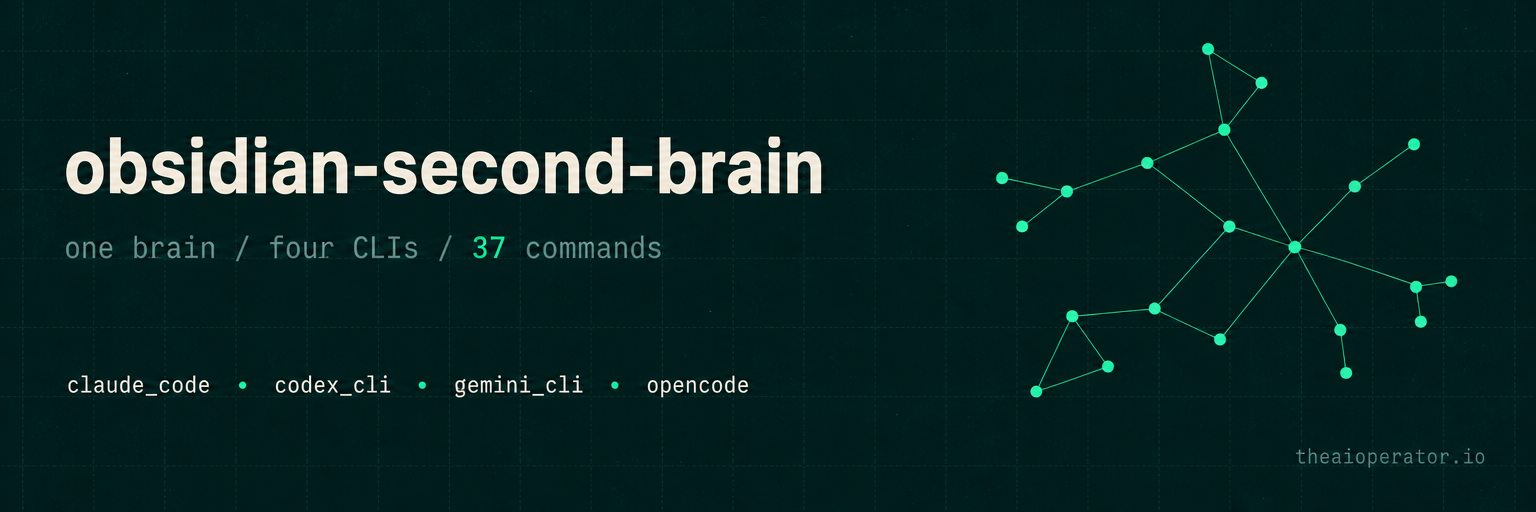
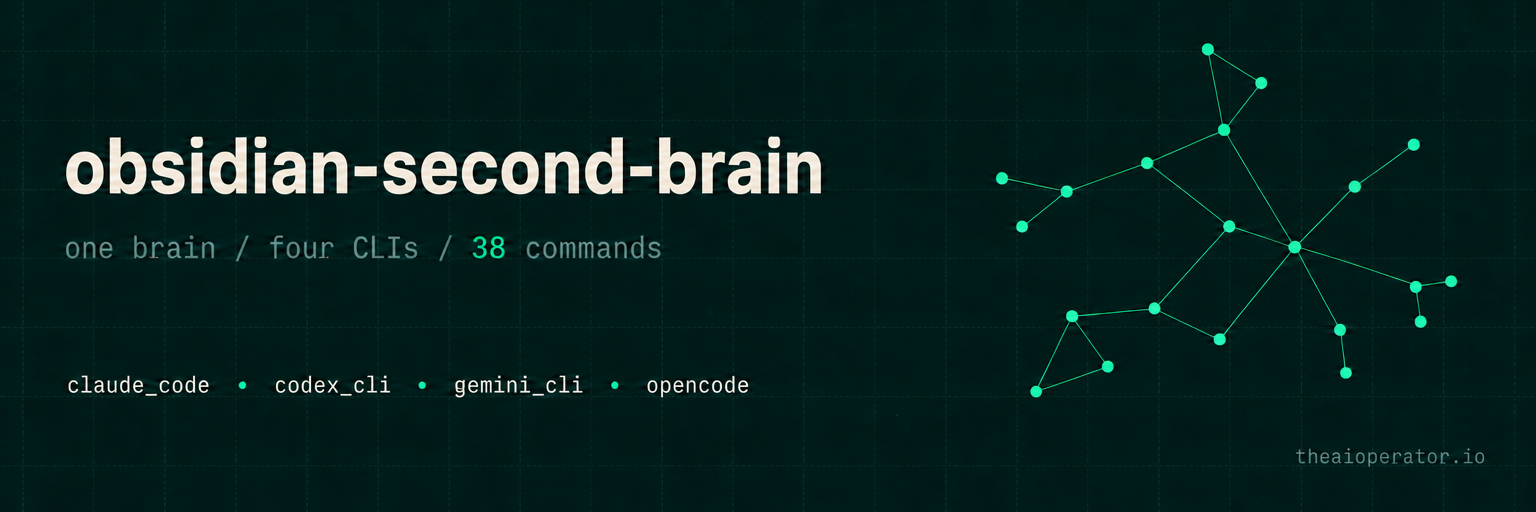
Add /obsidian-recurring; skip the niche workflow commands (#50)
Adds /obsidian-recurring (type: recurring-task with cadence + computed
next-due), filling the gap that one-shot /obsidian-task leaves. Adapted
from the johanvillalbab fork (English section names, anti-fabrication
footer, search-first step).

Deliberately NOT adding that fork's other workflow commands (proposal,
event, 1on1, launch-block): they are profession-specific (sales,
events, teaching, course launches) and belong in domain forks per
ECOSYSTEM.md, not in the general upstream skill. The overlapping ones
(vault-deep-synthesis, idea-discovery) are deferred pending evaluation
against the existing /obsidian-synthesize / -reconcile / -emerge.

Adds the recurring-task schema to references/ai-first-rules.md; registers
the command in SKILL.md and the README table; bumps counts to 38
(vault 15, cross-platform 35, non-research 30); banner number 37 -> 38.

Implements FORK_INSIGHTS.md #15.

diff --git a/commands/obsidian-recurring.md b/commands/obsidian-recurring.md
@@ -1,0 +1,23 @@
+---
+description: Track a recurring obligation (payment, filing, ops) with a cadence and a computed next-due date
+category: vault
+triggers_en: ["recurring task", "monthly obligation", "remind me every month", "recurring payment", "track a recurring"]
+---
+
+Use the obsidian-second-brain skill. Execute `/obsidian-recurring $ARGUMENTS`:
+
+The argument states the obligation and its cadence (e.g. "pay social benefits, monthly day 20"). Pull blocker/owner detail from the conversation.
+
+1. Read `_CLAUDE.md` first if it exists in the vault root.
+2. Search for an existing note on this obligation before creating one (see the anti-fabrication rule). If one exists, update it instead of duplicating.
+3. Build the note with these sections: What, Cadence, Blockers, History. Use the vault's `templates/` version if one exists.
+4. Set frontmatter: `type: recurring-task`, `cadence`, `owner`, `blocker` (wikilink if a person/vendor gates it), `next-due` (compute the next occurrence from today and the cadence), and `amount` if it is a payment.
+5. Add a card for the next occurrence to the right board so it surfaces before `next-due`.
+6. Propagate: link from the relevant project or finance note, and append a one-line entry to today's daily note and the operation log (`Logs/YYYY-MM-DD.md` if it exists, otherwise `log.md`).
+7. On each completion: append a row to History and advance `next-due` to the next occurrence.
+
+---
+
+**AI-first rule:** Every note created or updated by this command MUST follow `references/ai-first-rules.md` - `## For future Claude` preamble, rich frontmatter (`type`, `date`, `tags`, `ai-first: true`, plus type-specific fields), recency markers per external claim, mandatory `[[wikilinks]]` for every person/project/concept referenced, sources preserved verbatim with URLs inline, and confidence levels where applicable. The vault is for future-Claude retrieval - not human reading.
+
+**Anti-fabrication:** Search exhaustively before claiming any note, person, or file is absent - false absence is the most common failure mode - and never invent facts, entities, or dates (mark unknowns as `TBD`). See the anti-fabrication and search-completeness hard rules in `references/ai-first-rules.md`.

diff --git a/README.md b/README.md
@@ -1,6 +1,6 @@
 <p align="center">
   <a href="https://github.com/eugeniughelbur/obsidian-second-brain">
-    <img src="media/banner.png" alt="obsidian-second-brain: one brain, four CLIs, 37 commands. A cross-CLI skill for Obsidian that runs on Claude Code, Codex CLI, Gemini CLI, and OpenCode." width="100%" />
+    <img src="media/banner.png" alt="obsidian-second-brain: one brain, four CLIs, 38 commands. A cross-CLI skill for Obsidian that runs on Claude Code, Codex CLI, Gemini CLI, and OpenCode." width="100%" />
   </a>
 </p>
 
@@ -34,14 +34,14 @@
   <br /><br />
   <em>Every source updates existing pages instead of just appending new ones. Contradictions reconcile automatically. Your vault compounds while you sleep.</em>
   <br /><br />
-  <em>37 commands &middot; auto-synthesis &middot; thinking tools that argue with you</em>
+  <em>38 commands &middot; auto-synthesis &middot; thinking tools that argue with you</em>
   <br /><br />
   <em>live research from X, the web, and YouTube &middot; 4 scheduled agents &middot; 4 role presets</em>
   <br /><br />
   <em>write-time AI-first validator &middot; <code>/create-command</code> interview flow &middot; multilingual trigger schema</em>
   <br /><br />
   <a href="#what-happens-when-you-install-this">See it in action</a> &middot;
-  <a href="#37-commands">All commands</a> &middot;
+  <a href="#38-commands">All commands</a> &middot;
   <a href="#install">Install</a> &middot;
   <a href="#choose-your-preset">Presets</a> &middot;
   <a href="https://github.com/eugeniughelbur/obsidian-second-brain/discussions">Discussions</a>
@@ -216,7 +216,7 @@ Free transcript via youtube-transcript-api. Optional metadata + top comments via
 ```
   +------------------------------------------+
   |                                          |
-  |   LAYER 1: Operations (25 commands)      |
+  |   LAYER 1: Operations (26 commands)      |
   |   Claude remembers everything            |
   |                                          |
   +------------------------------------------+
@@ -243,7 +243,7 @@ Free transcript via youtube-transcript-api. Optional metadata + top comments via
   +------------------------------------------+
 ```
 
-37 commands total. The 3 Google Calendar commands (in Operations) are Claude Code only, so the Codex / Gemini / OpenCode builds ship 34.
+38 commands total. The 3 Google Calendar commands (in Operations) are Claude Code only, so the Codex / Gemini / OpenCode builds ship 35.
 
 **Layer 1** saves, organizes, ingests, reconciles, exports, schedules your calendar, and maintains your vault.
 **Layer 2** challenges your ideas, surfaces hidden patterns, bridges unrelated domains, and graduates ideas into projects.
@@ -253,7 +253,7 @@ Free transcript via youtube-transcript-api. Optional metadata + top comments via
 
 ---
 
-## 37 Commands
+## 38 Commands
 
 ### Operations -- Claude remembers
 
@@ -268,6 +268,7 @@ Free transcript via youtube-transcript-api. Optional metadata + top comments via
 | `/obsidian-agenda` | Reads Google Calendar and writes an AI-first snapshot (conflicts, focus blocks, attendee links) |
 | `/obsidian-schedule` | Creates or moves a Google Calendar event from a task or standalone, links it back to the task |
 | `/obsidian-meeting` | Generates a meeting note from a calendar event (attendees, time, link pre-filled) |
+| `/obsidian-recurring` | Tracks a recurring obligation with a cadence and a computed next-due date |
 | `/obsidian-log` | Logs a work session, links it everywhere |
 | `/obsidian-task` | Adds task to the right board with priority and due date |
 | `/obsidian-person` | Creates or updates a person note |
@@ -618,7 +619,7 @@ Keys you need:
 | `YOUTUBE_API_KEY` | [console.cloud.google.com](https://console.cloud.google.com) | `/youtube` metadata + comments (optional, transcripts free without) | Free tier 10k units/day |
 | `OPENAI_API_KEY` | [platform.openai.com](https://platform.openai.com/api-keys) | `/podcast` Whisper transcription (optional, falls back to show-notes if unset) | ~$0.006/min |
 
-Without keys, the 29 non-research commands work fully, and `/research` + `/research-deep` fall back to free, key-less sources. The rest of the research toolkit degrades gracefully.
+Without keys, the 30 non-research commands work fully, and `/research` + `/research-deep` fall back to free, key-less sources. The rest of the research toolkit degrades gracefully.
 
 ---
 
@@ -637,7 +638,7 @@ An Obsidian plugin runs inside Obsidian and is written in TypeScript against Obs
 Run the one-line installer from the Install section below. It clones the repo to `~/.claude/skills/obsidian-second-brain` and symlinks the slash commands into `~/.claude/commands/` so Claude Code picks them up automatically. Restart Claude Code after install. The skill loads on every session that touches an Obsidian vault.
 
 ### Does this work with Codex CLI, Gemini CLI, or OpenCode?
-Yes. The repo ships a build script that compiles the platform-neutral source into four platform-specific outputs: Claude Code (slash commands + `CLAUDE.md`), Codex CLI (`AGENTS.md` + `.codex/commands/`), Gemini CLI (`GEMINI.md` + `.gemini/commands/`), and OpenCode (`AGENTS.md` + `.opencode/commands/`). Run `bash scripts/build.sh --platform codex-cli` (or another platform name), then copy the resulting `dist/<platform>/` tree into your vault. The non-Claude builds auto-generate a routing table that maps natural-language triggers to command files, so the same 34 cross-platform commands work no matter which CLI you use (the 3 Google Calendar commands are Claude Code only, since they depend on the claude.ai Calendar connector). The vault rules (AI-first notes, frontmatter, wikilinks, recency markers) are identical across all four platforms.
+Yes. The repo ships a build script that compiles the platform-neutral source into four platform-specific outputs: Claude Code (slash commands + `CLAUDE.md`), Codex CLI (`AGENTS.md` + `.codex/commands/`), Gemini CLI (`GEMINI.md` + `.gemini/commands/`), and OpenCode (`AGENTS.md` + `.opencode/commands/`). Run `bash scripts/build.sh --platform codex-cli` (or another platform name), then copy the resulting `dist/<platform>/` tree into your vault. The non-Claude builds auto-generate a routing table that maps natural-language triggers to command files, so the same 35 cross-platform commands work no matter which CLI you use (the 3 Google Calendar commands are Claude Code only, since they depend on the claude.ai Calendar connector). The vault rules (AI-first notes, frontmatter, wikilinks, recency markers) are identical across all four platforms.
 
 ### Does this work with Obsidian Sync?
 Yes. The skill writes to your vault as standard markdown files. Obsidian Sync, iCloud, Syncthing, and Git-based sync all work without modification.

diff --git a/references/ai-first-rules.md b/references/ai-first-rules.md
@@ -256,6 +256,20 @@ tags: [meeting]
 ai-first: true
 ```
 
+### `type: recurring-task`
+Written by `/obsidian-recurring`. Tracks a repeating obligation with a cadence and a computed `next-due` that advances on each completion. The History section logs each occurrence.
+```yaml
+date: YYYY-MM-DD
+type: recurring-task
+cadence: ""                  # e.g. "monthly day 20", "every quarter", "weekly Mon"
+owner: ""
+blocker: "[[People/...]]"    # optional - who/what gates it
+next-due: YYYY-MM-DD         # computed next occurrence
+amount: ""                   # optional - for payments
+tags: [recurring-task]
+ai-first: true
+```
+
 ---
 
 ## Preamble Templates by Type

diff --git a/SKILL.md b/SKILL.md
@@ -106,7 +106,7 @@ See `references/vault-schema.md` for full structural details.
 ## Core Operating Principles
 
 ### AI-first vault rule (applies to every note)
-The vault is designed for **future-Claude** to read and reason over, not for human review. Every note Claude writes - across all 37 commands - must follow `references/ai-first-rules.md`:
+The vault is designed for **future-Claude** to read and reason over, not for human review. Every note Claude writes - across all 38 commands - must follow `references/ai-first-rules.md`:
 
 1. **Self-contained context** - each note explains itself; don't rely on backlinks alone
 2. **"For future Claude" preamble** - 2-3 sentence summary so Claude can decide relevance in 10 seconds
@@ -401,6 +401,14 @@ Three modes: standalone (`"<title>" <when> <duration>`), from a vault task (`tas
 **Generates a meeting note from a Google Calendar event.** Claude Code only.
 
 Resolve the event (`last`, `next`, `today`, `event-id:<id>`, or fuzzy title), cross-link attendees to person notes, and backlink any task whose frontmatter `calendar-event-id` matches. Saves to `wiki/meetings/` as `type: meeting` with the event metadata pre-filled and **empty** Notes / Decisions / Action items sections - never fabricate meeting content that did not happen.
+
+---
+
+### `/obsidian-recurring`
+
+**Tracks a recurring obligation (payment, filing, ops) with a cadence and a computed next-due date.**
+
+State the obligation and cadence (e.g. "pay social benefits, monthly day 20"). Searches for an existing note first, then builds a `type: recurring-task` note with What / Cadence / Blockers / History sections and frontmatter (`cadence`, `owner`, `blocker`, `next-due`, optional `amount`). Adds a board card for the next occurrence; on each completion, appends a History row and advances `next-due`. Fills the gap that `/obsidian-task` (one-shot) leaves.
 
 ---
 

diff --git a/CHANGELOG.md b/CHANGELOG.md
@@ -13,6 +13,7 @@ The format is based on [Keep a Changelog](https://keepachangelog.com/en/1.1.0/),
 
 ### Added
 
+- **`/obsidian-recurring` - track a recurring obligation with a cadence and a computed next-due date.** Builds a `type: recurring-task` note (What / Cadence / Blockers / History), adds a board card for the next occurrence, and advances `next-due` on each completion. Fills the gap that `/obsidian-task` (one-shot) leaves. Adds the `recurring-task` schema to `references/ai-first-rules.md`. (FORK_INSIGHTS.md #15; from the johanvillalbab fork. The other workflow commands in that fork - proposal, event, 1on1, launch-block - were intentionally left to domain forks per ECOSYSTEM.md rather than added upstream.)
 - **Google Calendar commands: `/obsidian-agenda`, `/obsidian-schedule`, `/obsidian-meeting`.** Claude Code only (they use the claude.ai Google Calendar MCP connector, so they are excluded from the Codex/Gemini/OpenCode builds). `/obsidian-agenda` writes a re-derivable `agenda-snapshot` note for a range (today/tomorrow/week/next-week/date/range) with conflict, back-to-back, focus-block, and external-organizer detection, cross-linking attendees to person notes. `/obsidian-schedule` creates or reschedules events from a task or standalone, resolving attendee emails from person notes (never guessing) and writing the event id/url back to the task. `/obsidian-meeting` generates a `meeting` note from an event with empty Notes/Decisions/Action-items sections (never fabricated). Adds `agenda-snapshot` and `meeting` schemas to `references/ai-first-rules.md`. (FORK_INSIGHTS.md #8-11; from the johanvillalbab fork)
 - **Free (key-less) mode for `/research` and `/research-deep`.** Both commands now work with no API keys. Mode is auto-selected: when `PERPLEXITY_API_KEY` is set they use Perplexity/Grok exactly as before; when it is not (or `--free` is passed) they aggregate free, key-less sources in parallel - Wikipedia, HackerNews, arXiv, Reddit, Lobsters, dev.to, OpenAlex, Semantic Scholar, CrossRef, DuckDuckGo (SearXNG fallback) - and emit JSON that the calling Claude synthesizes into the same AI-first dossier. `--academic` restricts free mode to scholarly sources. New `scripts/research/lib/` layer: 11 source clients, a parallel aggregator (30s timeout, "success" at >= 3 sources, never crashes on a per-source failure), a 24h-TTL cache, a shared polite-UA session, and an env-based `source_config` deliberately decoupled from the vault path so the sources import with no vault and no keys. Previously these commands hard-errored without a Perplexity key - the main adoption barrier. 6 new no-network unit tests; CI installs `requests`. (FORK_INSIGHTS.md #1-6; from the a0919376604 fork)
 - **Anti-fabrication and search-completeness guards.** Adds a non-negotiable hard-rules section to `references/ai-first-rules.md` covering three failure modes: false absence (never claim a note/person/file is absent without an exhaustive search - the single most common observed failure), search completeness (enumerate exhaustively, do not sample), and no fabrication (never invent facts/entities/dates; mark unknowns `TBD`; an empty section is correct when nothing was said). Echoed in the SKILL.md operating principles and `references/write-rules.md`, plus a per-command **Anti-fabrication** footer on the 33 commands that write vault notes (`create-command` excepted - it writes command files, not notes). Fills a real gap: the repo had an AI-first write spec but no hallucination guard. (FORK_INSIGHTS.md #26-28; from the CP250/mbs_automation fork)